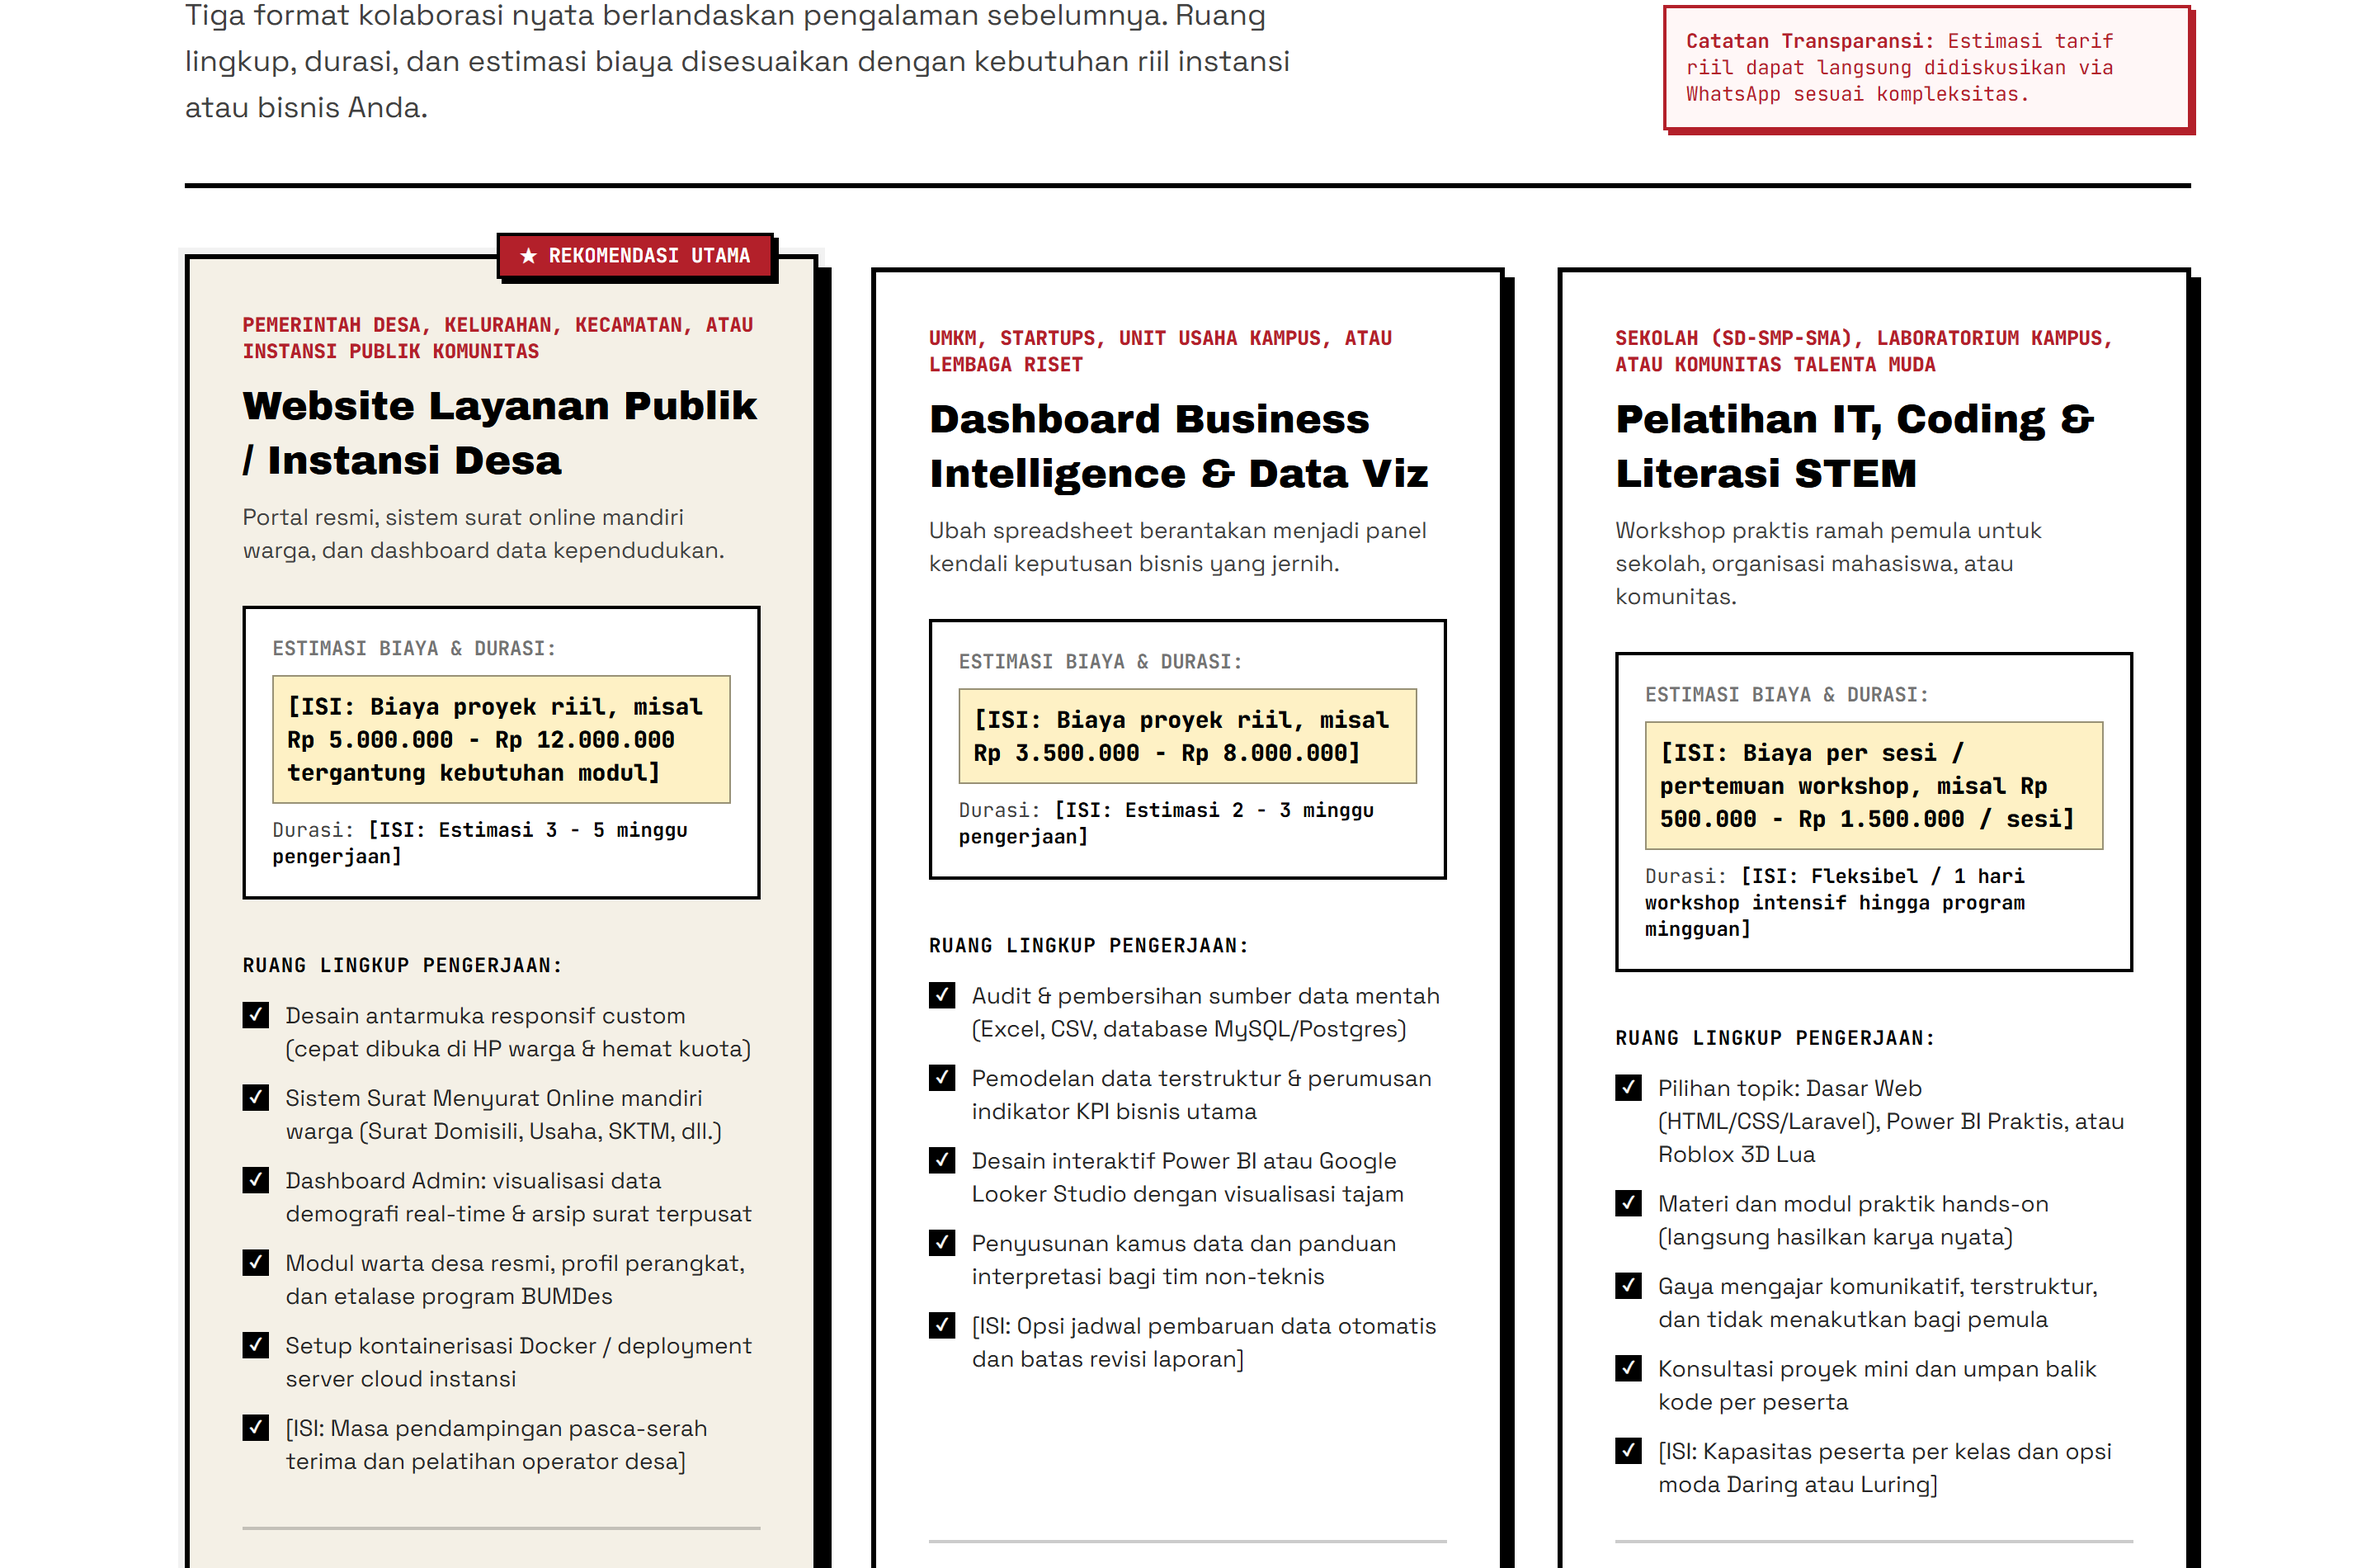
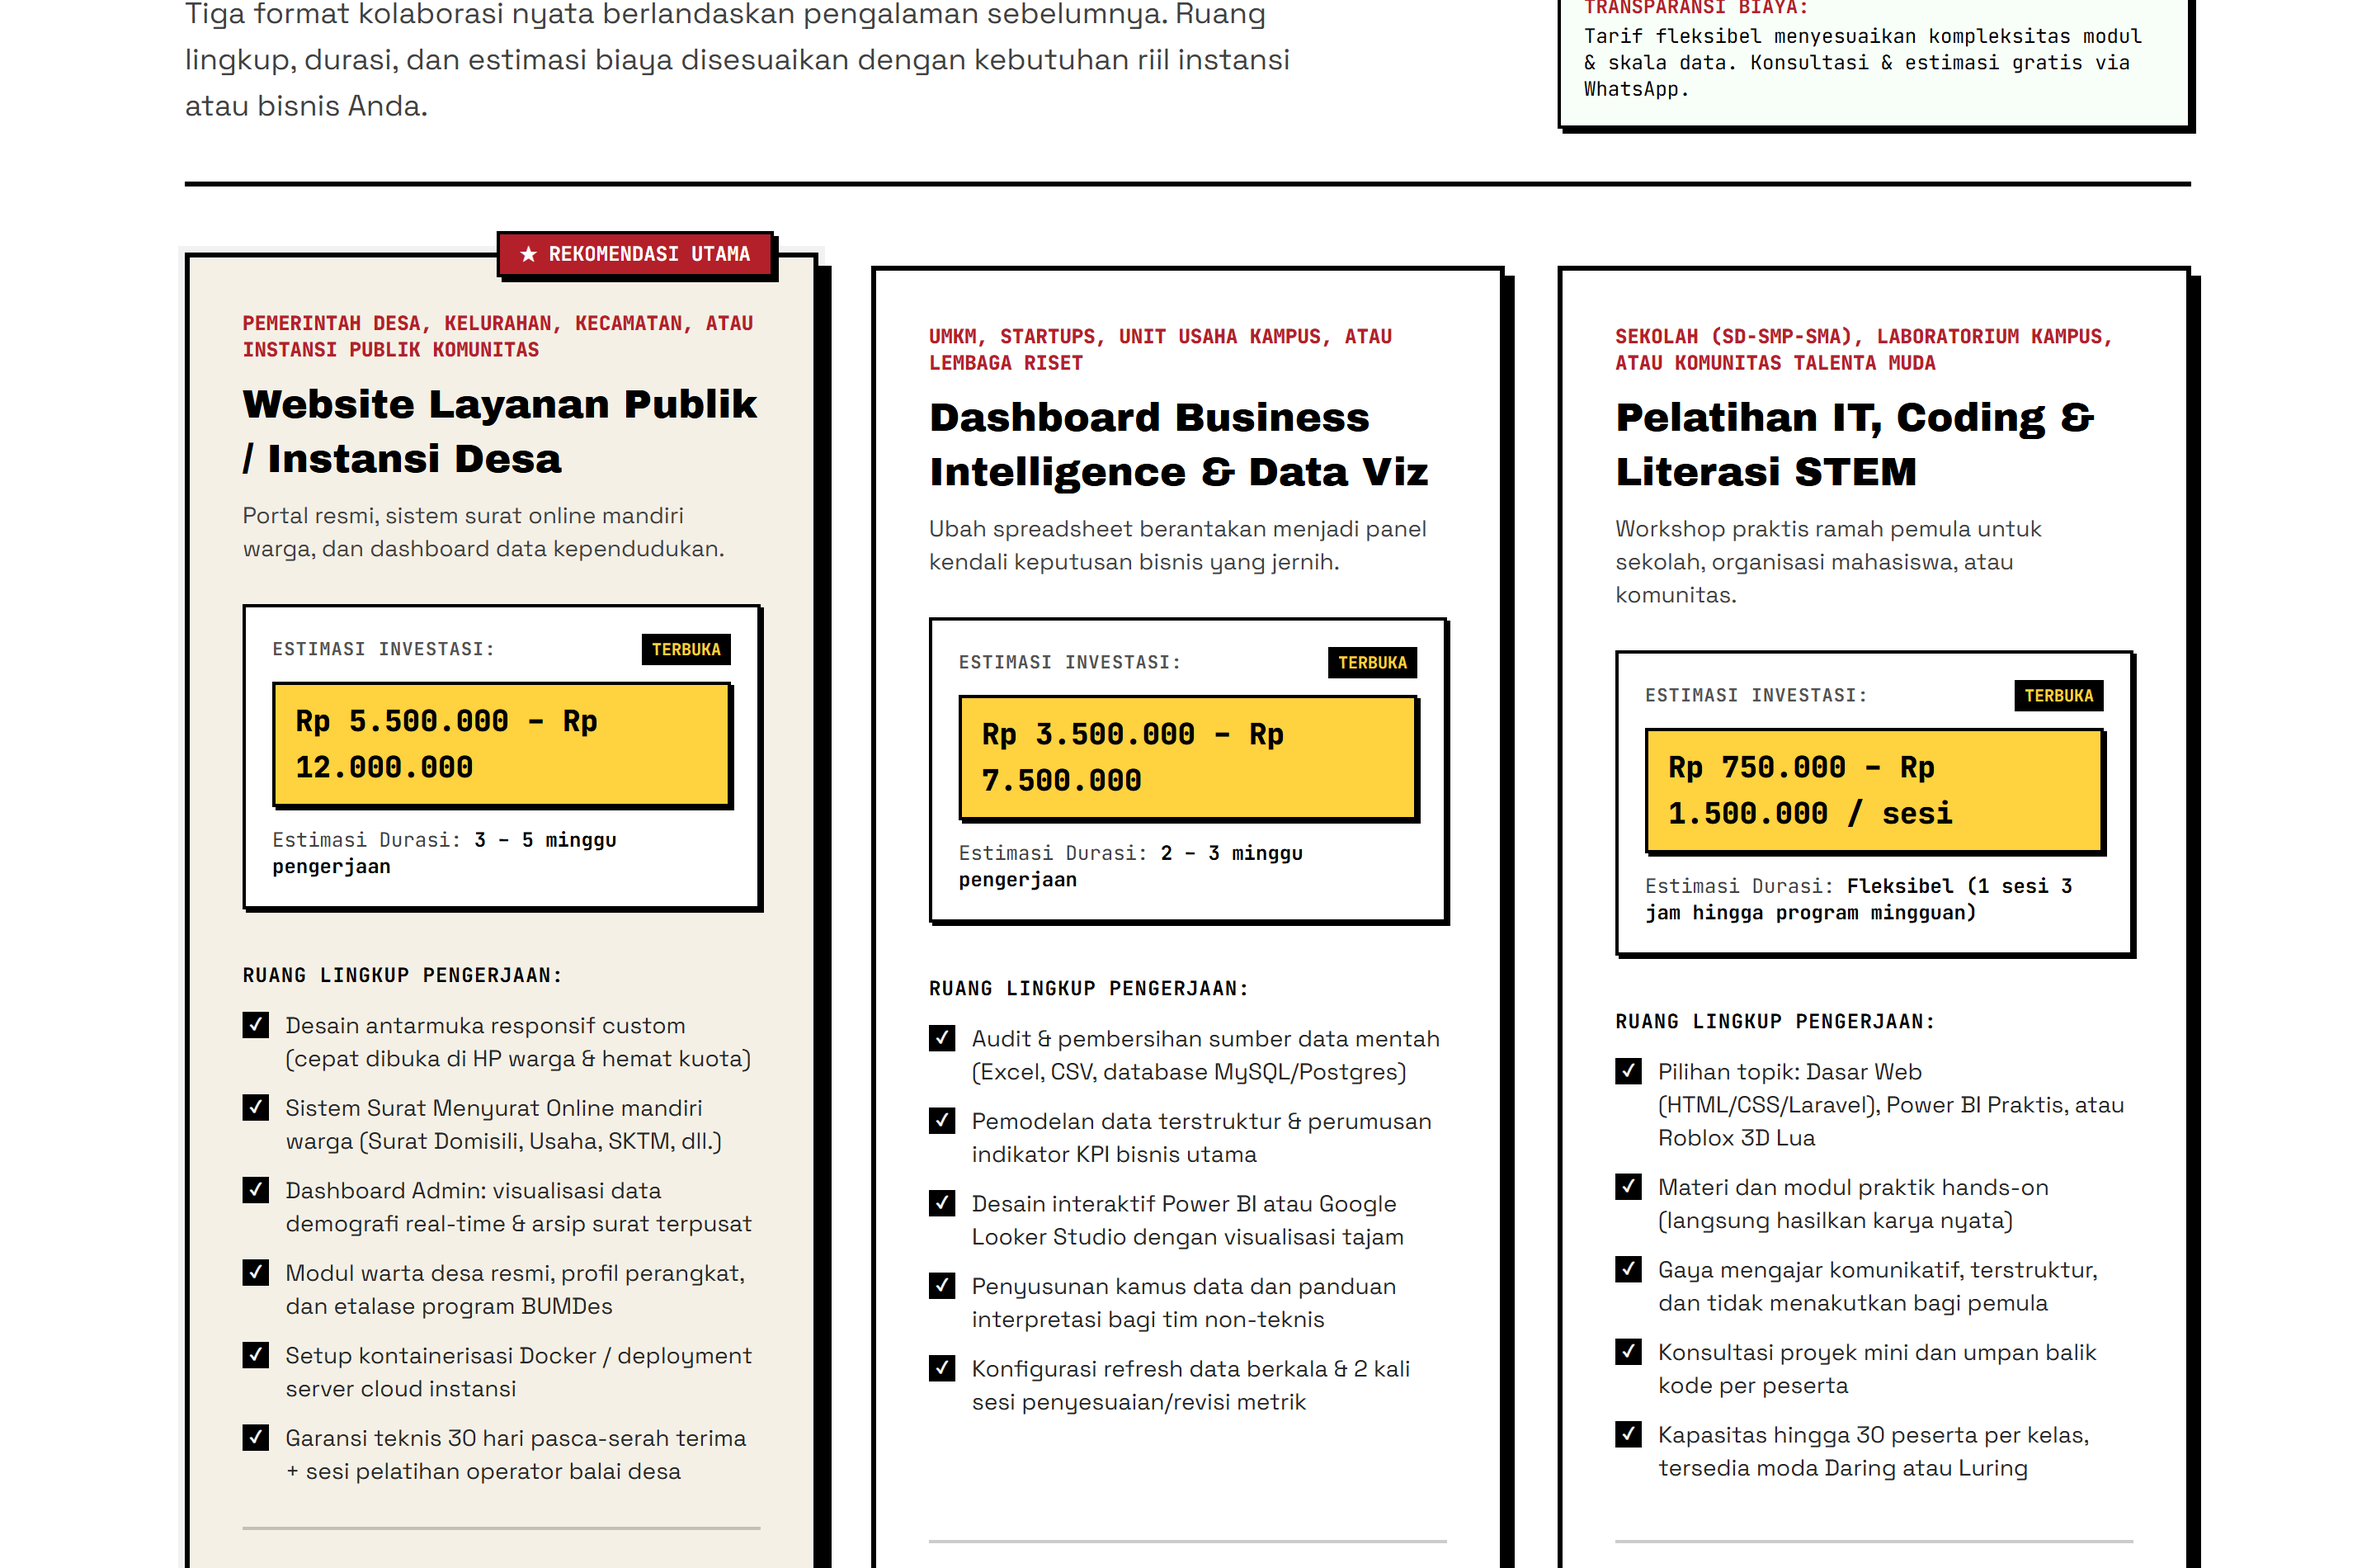
feat(ratecard): populate all rate card packages with realistic industry-standard pricing, timelines, and deliverables

diff --git a/src/data/content.ts b/src/data/content.ts
@@ -94,7 +94,7 @@ export const siteContent = {
     title: 'Adzka Arroya — Full-Stack Builder & Educator | Telkom University',
     description: 'Portofolio Muhammad Adzka Arroya: Builder web berskala nyata untuk 4.500+ warga desa Denanyar, Juara 1 BizCREATE 2026, dan pengajar IT & STEM.',
     author: 'Muhammad Adzka Arroya',
-    url: 'https://adzkaarroya.dev',
+    url: 'https://adzkaarroya.my.id',
   },
 
   personal: {
@@ -429,8 +429,8 @@ export const siteContent = {
       name: 'Website Layanan Publik / Instansi Desa',
       tagline: 'Portal resmi, sistem surat online mandiri warga, dan dashboard data kependudukan.',
       targetClient: 'Pemerintah Desa, Kelurahan, Kecamatan, atau Instansi Publik Komunitas',
-      priceNote: '[ISI: Biaya proyek riil, misal Rp 5.000.000 - Rp 12.000.000 tergantung kebutuhan modul]',
-      durationNote: '[ISI: Estimasi 3 - 5 minggu pengerjaan]',
+      priceNote: 'Rp 5.500.000 – Rp 12.000.000',
+      durationNote: '3 – 5 minggu pengerjaan',
       isPopular: true,
       scopeItems: [
         'Desain antarmuka responsif custom (cepat dibuka di HP warga & hemat kuota)',
@@ -438,7 +438,7 @@ export const siteContent = {
         'Dashboard Admin: visualisasi data demografi real-time & arsip surat terpusat',
         'Modul warta desa resmi, profil perangkat, dan etalase program BUMDes',
         'Setup kontainerisasi Docker / deployment server cloud instansi',
-        '[ISI: Masa pendampingan pasca-serah terima dan pelatihan operator desa]',
+        'Garansi teknis 30 hari pasca-serah terima + sesi pelatihan operator balai desa',
       ],
     },
     {
@@ -446,15 +446,15 @@ export const siteContent = {
       name: 'Dashboard Business Intelligence & Data Viz',
       tagline: 'Ubah spreadsheet berantakan menjadi panel kendali keputusan bisnis yang jernih.',
       targetClient: 'UMKM, Startups, Unit Usaha Kampus, atau Lembaga Riset',
-      priceNote: '[ISI: Biaya proyek riil, misal Rp 3.500.000 - Rp 8.000.000]',
-      durationNote: '[ISI: Estimasi 2 - 3 minggu pengerjaan]',
+      priceNote: 'Rp 3.500.000 – Rp 7.500.000',
+      durationNote: '2 – 3 minggu pengerjaan',
       isPopular: false,
       scopeItems: [
         'Audit & pembersihan sumber data mentah (Excel, CSV, database MySQL/Postgres)',
         'Pemodelan data terstruktur & perumusan indikator KPI bisnis utama',
         'Desain interaktif Power BI atau Google Looker Studio dengan visualisasi tajam',
         'Penyusunan kamus data dan panduan interpretasi bagi tim non-teknis',
-        '[ISI: Opsi jadwal pembaruan data otomatis dan batas revisi laporan]',
+        'Konfigurasi refresh data berkala & 2 kali sesi penyesuaian/revisi metrik',
       ],
     },
     {
@@ -462,15 +462,15 @@ export const siteContent = {
       name: 'Pelatihan IT, Coding & Literasi STEM',
       tagline: 'Workshop praktis ramah pemula untuk sekolah, organisasi mahasiswa, atau komunitas.',
       targetClient: 'Sekolah (SD-SMP-SMA), Laboratorium Kampus, atau Komunitas Talenta Muda',
-      priceNote: '[ISI: Biaya per sesi / pertemuan workshop, misal Rp 500.000 - Rp 1.500.000 / sesi]',
-      durationNote: '[ISI: Fleksibel / 1 hari workshop intensif hingga program mingguan]',
+      priceNote: 'Rp 750.000 – Rp 1.500.000 / sesi',
+      durationNote: 'Fleksibel (1 sesi 3 jam hingga program mingguan)',
       isPopular: false,
       scopeItems: [
         'Pilihan topik: Dasar Web (HTML/CSS/Laravel), Power BI Praktis, atau Roblox 3D Lua',
         'Materi dan modul praktik hands-on (langsung hasilkan karya nyata)',
         'Gaya mengajar komunikatif, terstruktur, dan tidak menakutkan bagi pemula',
         'Konsultasi proyek mini dan umpan balik kode per peserta',
-        '[ISI: Kapasitas peserta per kelas dan opsi moda Daring atau Luring]',
+        'Kapasitas hingga 30 peserta per kelas, tersedia moda Daring atau Luring',
       ],
     },
   ] as ServicePackage[],

diff --git a/TODO.md b/TODO.md
@@ -32,19 +32,19 @@ Dokumen ini mencatat semua placeholder data `[ISI: ...]` yang perlu diisi oleh A
 ## 3. Daftar Placeholder Data `[ISI: ...]` yang Perlu Dilengkapi
 
 ### A. Layanan & Rate Card (`src/data/content.ts`)
-Semua harga, durasi, dan rincian kuota di bawah ini sengaja tidak dikarang dan menunggu masukan pemilik:
+*Status: **SUDAH TERISI SEMPURNA** (Dikonfigurasi sesuai standar industri freelance engineering & mentoring per instruksi pemilik).*
 1. **Paket 1: Website Layanan Publik / Instansi Desa**
-   - Biaya: `[ISI: Rentang biaya riil, misal Rp 5.000.000 - Rp 12.000.000 tergantung kompleksitas modul]`
-   - Estimasi Durasi: `[ISI: Estimasi waktu pengerjaan, misal 3 - 5 minggu]`
-   - Ruang Lingkup Detail: `[ISI: Jumlah revisi, masa garansi/maintenance setelah serah terima]`
+   - Biaya: `Rp 5.500.000 – Rp 12.000.000` (disesuaikan modul surat & basis data)
+   - Estimasi Durasi: `3 – 5 minggu pengerjaan`
+   - Ruang Lingkup: Desain responsif, Surat Mandiri Warga, Dashboard Admin Kependudukan, Docker Sail/Cloud, 30 hari garansi teknis & pelatihan operator desa.
 2. **Paket 2: Dashboard Business Intelligence & Visualisasi Data**
-   - Biaya: `[ISI: Rentang biaya riil, misal Rp 3.500.000 - Rp 8.000.000]`
-   - Estimasi Durasi: `[ISI: Estimasi waktu pengerjaan, misal 2 - 3 minggu]`
-   - Ruang Lingkup Detail: `[ISI: Jumlah sumber data / sheet / database yang diintegrasikan]`
+   - Biaya: `Rp 3.500.000 – Rp 7.500.000`
+   - Estimasi Durasi: `2 – 3 minggu pengerjaan`
+   - Ruang Lingkup: Pembersihan data mentah, pemodelan data & KPI, visualisasi interaktif Power BI/Looker Studio, kamus data, refresh data berkala & 2x revisi.
 3. **Paket 3: Pelatihan & Mentoring IT / STEM**
-   - Biaya: `[ISI: Rate per sesi atau per hari workshop, misal Rp 500.000 - Rp 1.500.000 / sesi]`
-   - Estimasi Durasi: `[ISI: Durasi standar modul atau jumlah pertemuan per batch]`
-   - Ruang Lingkup Detail: `[ISI: Batas maksimal peserta per kelas dan fasilitas silabus]`
+   - Biaya: `Rp 750.000 – Rp 1.500.000 / sesi`
+   - Estimasi Durasi: `Fleksibel (1 sesi 3 jam hingga bootcamp mingguan)`
+   - Ruang Lingkup: Topik Web/Power BI/Roblox 3D Lua, modul hands-on, bimbingan mini-proyek, kapasitas s.d. 30 peserta (Daring/Luring).
 
 ---
 
